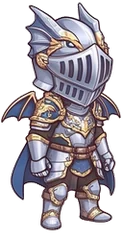
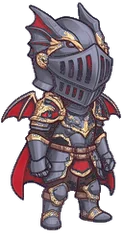
伝説の衣装を黒竜騎士の鎧（黒×赤）に

diff --git a/index.html b/index.html
@@ -226,7 +226,7 @@ footer nav { display: flex; flex-wrap: wrap; justify-content: center; gap: 6px 1
       <li><b>40+</b>頭と背中の飾り</li>
       <li><b>12</b>髪の色</li>
     </ul>
-    <div class="av-legend reveal"><figure class="av-card"><img src="img/avatar/c2.webp" alt="竜騎士の聖鎧" loading="lazy"><figcaption><span class="av-tag">伝説</span>竜騎士の聖鎧</figcaption></figure><figure class="av-card"><img src="img/avatar/c9.webp" alt="黄金獅子の鎧" loading="lazy"><figcaption><span class="av-tag">伝説</span>黄金獅子の鎧</figcaption></figure><figure class="av-card"><img src="img/avatar/c15.webp" alt="天空の聖衣" loading="lazy"><figcaption><span class="av-tag">伝説</span>天空の聖衣</figcaption></figure><figure class="av-card"><img src="img/avatar/c20.webp" alt="舞姫の羽衣" loading="lazy"><figcaption><span class="av-tag">伝説</span>舞姫の羽衣</figcaption></figure><figure class="av-card"><img src="img/avatar/c23.webp" alt="夜の女王" loading="lazy"><figcaption><span class="av-tag">伝説</span>夜の女王</figcaption></figure><figure class="av-card"><img src="img/avatar/c29.webp" alt="王国の大元帥" loading="lazy"><figcaption><span class="av-tag">伝説</span>王国の大元帥</figcaption></figure></div>
+    <div class="av-legend reveal"><figure class="av-card"><img src="img/avatar/c2.webp" alt="黒竜騎士の鎧" loading="lazy"><figcaption><span class="av-tag">伝説</span>黒竜騎士の鎧</figcaption></figure><figure class="av-card"><img src="img/avatar/c9.webp" alt="黄金獅子の鎧" loading="lazy"><figcaption><span class="av-tag">伝説</span>黄金獅子の鎧</figcaption></figure><figure class="av-card"><img src="img/avatar/c15.webp" alt="天空の聖衣" loading="lazy"><figcaption><span class="av-tag">伝説</span>天空の聖衣</figcaption></figure><figure class="av-card"><img src="img/avatar/c20.webp" alt="舞姫の羽衣" loading="lazy"><figcaption><span class="av-tag">伝説</span>舞姫の羽衣</figcaption></figure><figure class="av-card"><img src="img/avatar/c23.webp" alt="夜の女王" loading="lazy"><figcaption><span class="av-tag">伝説</span>夜の女王</figcaption></figure><figure class="av-card"><img src="img/avatar/c29.webp" alt="王国の大元帥" loading="lazy"><figcaption><span class="av-tag">伝説</span>王国の大元帥</figcaption></figure></div>
     <p class="av-sub reveal">強敵とボスが、まれに落とす伝説の衣装</p>
     <div class="av-all reveal"><img src="img/avatar/c0.webp" alt="剣道着" title="剣道着" loading="lazy"><img src="img/avatar/c1.webp" alt="海賊の船長服" title="海賊の船長服" loading="lazy"><img src="img/avatar/c3.webp" alt="星読みのローブ" title="星読みのローブ" loading="lazy"><img src="img/avatar/c4.webp" alt="夏祭りの浴衣" title="夏祭りの浴衣" loading="lazy"><img src="img/avatar/c5.webp" alt="紅蓮の魔導礼装" title="紅蓮の魔導礼装" loading="lazy"><img src="img/avatar/c6.webp" alt="近衛兵の礼装" title="近衛兵の礼装" loading="lazy"><img src="img/avatar/c7.webp" alt="雪国の毛皮よろい" title="雪国の毛皮よろい" loading="lazy"><img src="img/avatar/c8.webp" alt="山賊の頭領" title="山賊の頭領" loading="lazy"><img src="img/avatar/c10.webp" alt="花の巫女装束" title="花の巫女装束" loading="lazy"><img src="img/avatar/c11.webp" alt="旅の薬師" title="旅の薬師" loading="lazy"><img src="img/avatar/c12.webp" alt="聖夜の礼拝服" title="聖夜の礼拝服" loading="lazy"><img src="img/avatar/c13.webp" alt="森の妖精の服" title="森の妖精の服" loading="lazy"><img src="img/avatar/c14.webp" alt="月光の狩人" title="月光の狩人" loading="lazy"><img src="img/avatar/c16.webp" alt="吟遊詩人の正装" title="吟遊詩人の正装" loading="lazy"><img src="img/avatar/c17.webp" alt="ステージ衣装" title="ステージ衣装" loading="lazy"><img src="img/avatar/c18.webp" alt="砂漠の踊り子" title="砂漠の踊り子" loading="lazy"><img src="img/avatar/c19.webp" alt="南国の花飾り" title="南国の花飾り" loading="lazy"><img src="img/avatar/c21.webp" alt="ゴシックドレス" title="ゴシックドレス" loading="lazy"><img src="img/avatar/c22.webp" alt="雨の日のレインコート" title="雨の日のレインコート" loading="lazy"><img src="img/avatar/c24.webp" alt="忍びの装束" title="忍びの装束" loading="lazy"><img src="img/avatar/c25.webp" alt="黒猫の怪盗" title="黒猫の怪盗" loading="lazy"><img src="img/avatar/c26.webp" alt="宮廷の書記官" title="宮廷の書記官" loading="lazy"><img src="img/avatar/c27.webp" alt="陣羽織の大将" title="陣羽織の大将" loading="lazy"><img src="img/avatar/c28.webp" alt="祭りのはっぴ" title="祭りのはっぴ" loading="lazy"></div>
     <p class="av-sub reveal">武器アバター（見た目だけ。強さは変わりません）</p>
